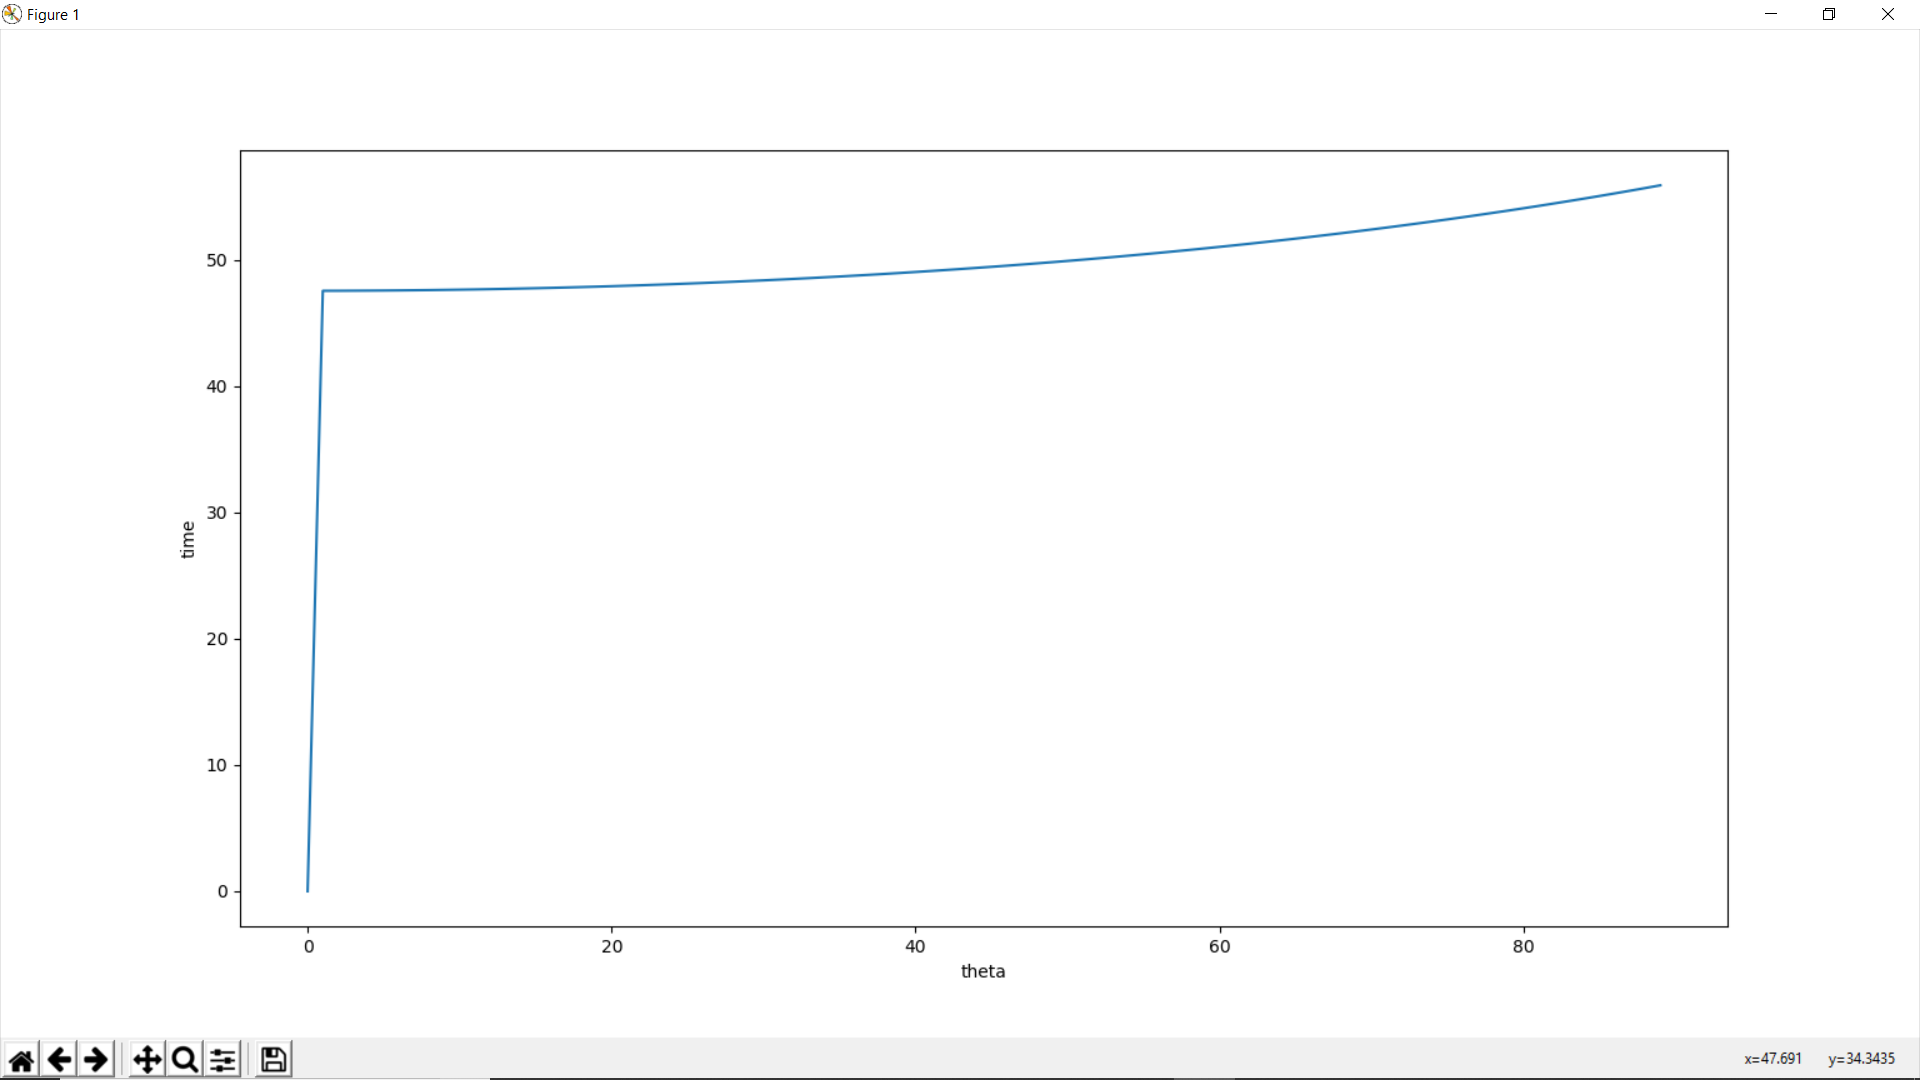
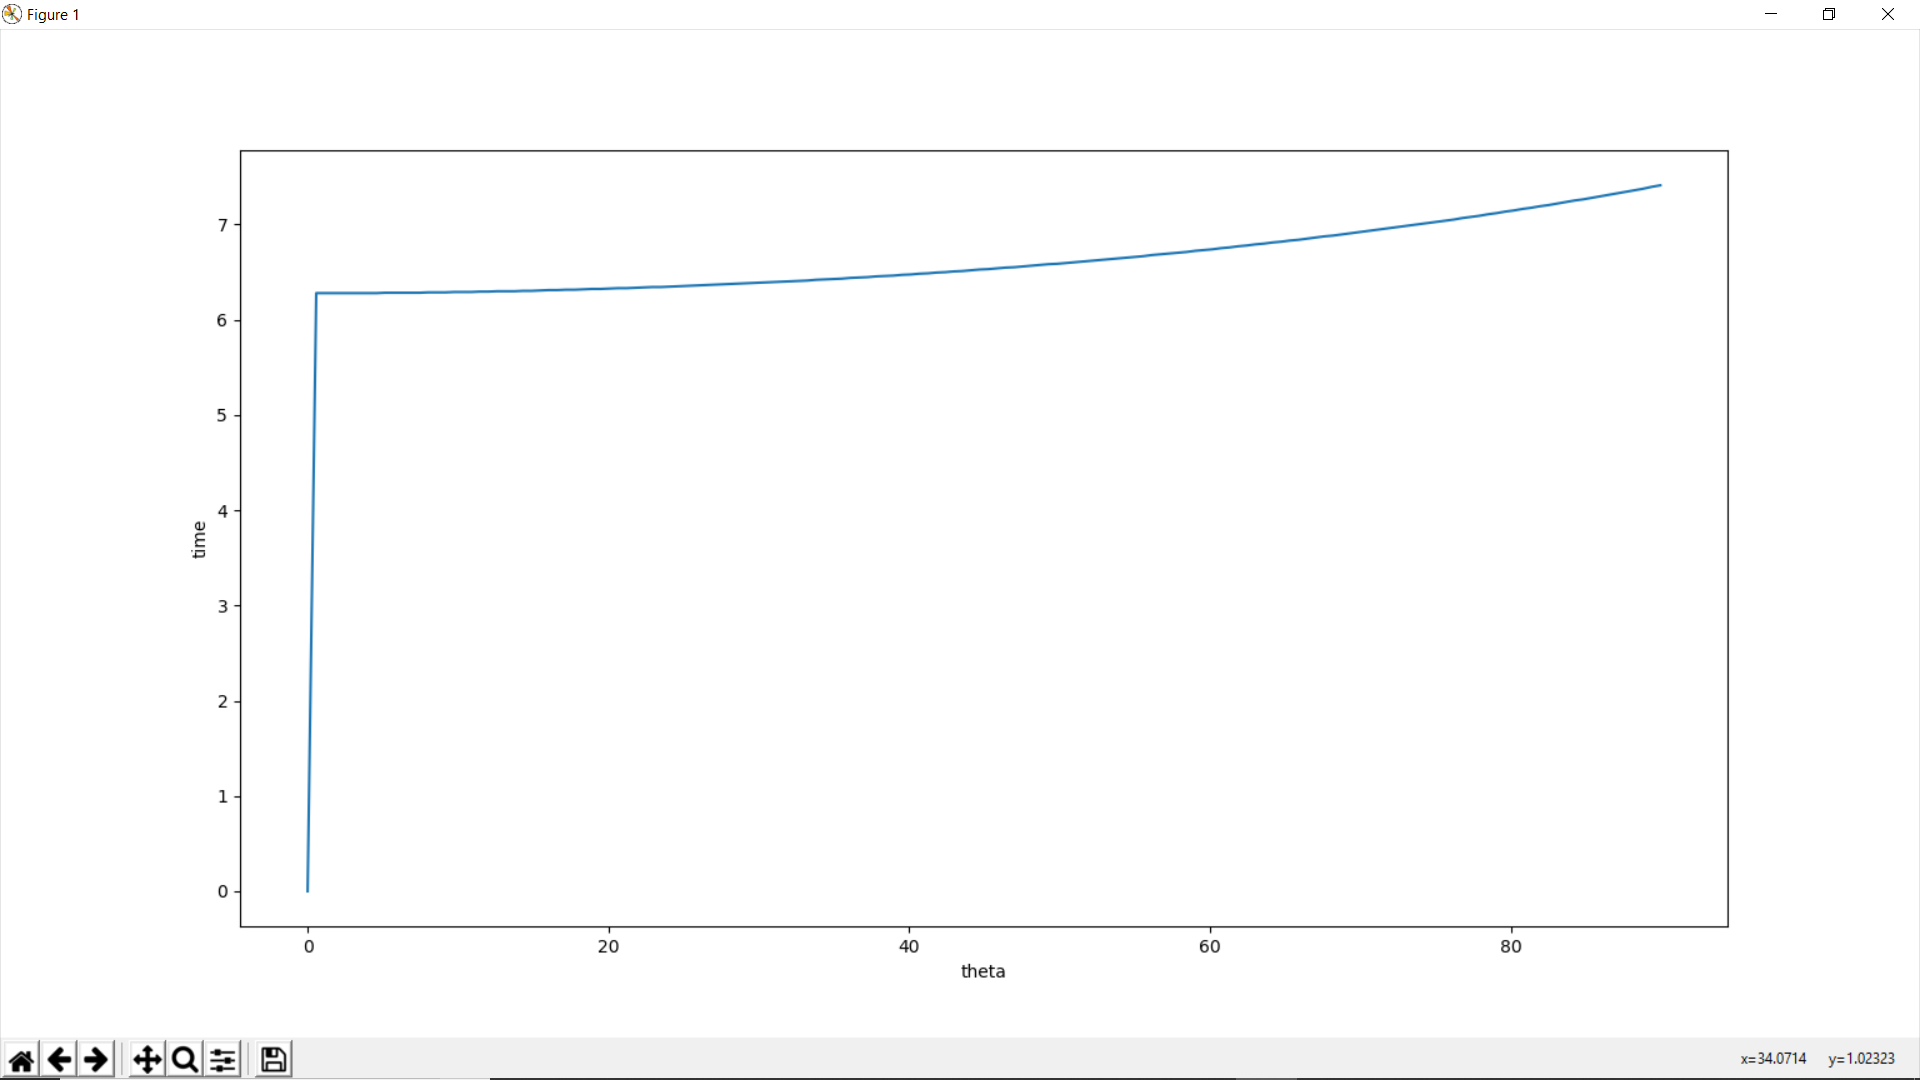
bug fixed thanks @rajat for reporting it

diff --git a/question3/question3.py b/question3/question3.py
@@ -2,21 +2,23 @@ import matplotlib.pyplot as graph
 import numpy as array
 import math
 #assuming length of pendulum is equal to g
-theta=array.arange(0,90,1)
+theta=array.arange(0,math.pi/2,0.01)
 dt=0.001
 time=array.arange(0,70,dt)
 def timer(the):
 	w=0
 	o=the
 	for t in time:
-		w=w+math.sin(math.radians(o))*dt
+		w=w+math.sin(o)*dt
 		o=o-w*dt
-		if(o<=-the):
-			return 2*t
+		if(o<=0):
+			return 4*t
 period=[]
+tet=[]
 for x in theta:
 	period.append(timer(x))
+	tet.append(math.degrees(x))
 graph.xlabel("theta")
 graph.ylabel("time")
-graph.plot(period)
+graph.plot(tet,period)
 graph.show()
